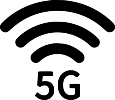
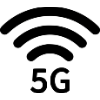
finished friends-screen

diff --git a/friends.html b/friends.html
@@ -8,21 +8,153 @@
 </head>
 <body>
     <!-- STATUS-BAR -->
-    <div class="status-bar">
+    <div class="status-bar-b">
         <div class="status-bar_service">
             <span class="status-bar_service_telecom">Verizon</span>
-            <img class="icon_5g" src="img/5g.png" />
+            <img class="icon_5g" src="img/5g_w.png" />
         </div>
         <div class="status-bar_time">
             <span class="status-bar_time_time">12:43</span>
         </div>
         <div class="status-bar_battery">
-            <img class="icon_rotation" src="img/rotaion.png"/>
+            <img class="icon_rotation" src="img/rotation_w.png"/>
             <span class="status-bar_battery_percentage">75%</span>
-            <img class="icon_battery" src="img/battery.png"/>
-            <img class="icon_flash" src="img/flash.png"/>
+            <img class="icon_battery" src="img/battery_w.png"/>
+            <img class="icon_flash" src="img/flash_w.png"/>
         </div>
     </div>
+    <!-- FRIENDS-SCREEN -->
+    <div class="friends-bg">
+        <heacer class="header">
+            <span>FRIENDS</span>
+        </heacer>
+        <div class="friends-screen">
+            <div class="profile">
+                <div class="profile_col_pic">
+                    <img class="profile_pic_lg" src="img/spider-selfie.jpg">
+                </div>
+                <div class="profile_col_content">
+                    <div class="profile_col_content_name-lg">
+                        <span class="profile_name">Spider-Man</span>
+                    </div>
+                    <div class="profile_col_content_text"></div>
+                </div>
+                <div class="profile_col_noti">
+                    <div class="profile_col_noti_time"></div>
+                    <div class="profile_col_noti_noti"></div>
+                </div>
+
+            </div>
+            <div class="h-line_f">
+                <div class="h-line_text">
+                    Hero
+                </div>
+                <div class="h-line_icon">
+                    <img class="chev-up_f" src="img/chev-up.PNG" />
+                </div>
+            </div>
+            <div class="profile">
+                <div class="profile_col_pic">
+                    <img class="profile_pic" src="img/nicolas.jpg">
+                </div>
+                <div class="profile_col_content">
+                    <div class="profile_col_content_name">
+                        <span class="profile_name">Nomad-Coder</span>
+                    </div>
+                    <div class="profile_col_content_text">
+                        <span class="profile_span">Don't for get to be happy and eat Kimchi!</span>
+                    </div>
+                </div>
+                <div class="profile_col_noti">
+                    <div class="profile_col_noti_time"></div>
+                    <div class="profile_col_noti_noti"></div>
+                </div>
+
+            </div>
+            <div class="profile">
+                <div class="profile_col_pic">
+                    <img class="profile_pic" src="img/iron-selfie.jpg">
+                </div>
+                <div class="profile_col_content">
+                    <div class="profile_col_content_name">
+                        <span class="profile_name">Iron-man</span>
+                    </div>
+                    <div class="profile_col_content_text">
+                        <span class="profile_span"></span>
+                    </div>
+                </div>
+                <div class="profile_col_noti">
+                    <div class="profile_col_noti_time"></div>
+                    <div class="profile_col_noti_noti"></div>
+                </div>
+            </div>
+            <div class="profile">
+                <div class="profile_col_pic">
+                    <img class="profile_pic" src="img/hulk-selfie.jpg">
+                </div>
+                <div class="profile_col_content">
+                    <div class="profile_col_content_name">
+                        <span class="profile_name">HULK</span>
+                    </div>
+                    <div class="profile_col_content_text">
+                        <span class="profile_span">Don't make me angry.</span>
+                    </div>
+                </div>
+                <div class="profile_col_noti">
+                    <div class="profile_col_noti_time"></div>
+                    <div class="profile_col_noti_noti"></div>
+                </div>
+
+            </div>
+            <div class="h-line_f">
+                <div class="h-line_text">
+                    DC guys
+                </div>
+                <div class="h-line_icon">
+                    <img class="chev-up_f" src="img/chev-up.PNG" />
+                </div>
+            </div>
+            <div class="profile">
+                <div class="profile_col_pic">
+                    <img class="profile_pic" src="img/bat-selfie.jpg">
+                </div>
+                <div class="profile_col_content">
+                    <div class="profile_col_content_name">
+                        <span class="profile_name">Bat-Man</span>
+                    </div>
+                    <div class="profile_col_content_text">
+                        <span class="profile_span">DC boom is coming!</span>
+                    </div>
+                </div>
+                <div class="profile_col_noti">
+                    <div class="profile_col_noti_time"></div>
+                    <div class="profile_col_noti_noti"></div>
+                </div>
+
+            </div>
+            <div class="profile">
+                <div class="profile_col_pic">
+                    <img class="profile_pic" src="img/wonder-selfie.jpg">
+                </div>
+                <div class="profile_col_content">
+                    <div class="profile_col_content_name">
+                        <span class="profile_name">Wonder-Woman</span>
+                    </div>
+                    <div class="profile_col_content_text">
+                        <span class="profile_span"></span>
+                    </div>
+                </div>
+                <div class="profile_col_noti">
+                    <div class="profile_col_noti_time"></div>
+                    <div class="profile_col_noti_noti"></div>
+                </div>
+
+            </div>
+            
+            
+        </div>
+    </div>
+    <!-- NAVIGATION -->
     <script src="https://kit.fontawesome.com/62b50a0b9a.js" crossorigin="anonymous"></script>
 </body>
 </html>

diff --git a/css/screens/friends-screen.css b/css/screens/friends-screen.css
@@ -1,0 +1,67 @@
+.friends-screen {
+  margin: 0px 15px;
+  width: 100%;
+  background-color: white;
+  border-radius: 10px;
+  padding: 15px 15px 0px;
+  box-sizing: border-box;
+}
+
+/* Profile-row */
+.profile {
+  display: flex;
+  width: 100%;
+  align-items: center;
+  margin-bottom: 15px;
+}
+
+/* Profile_1st Column */
+.profile_pic_lg {
+  height: 60px;
+  width: 60px;
+  border-radius: 10px;
+  margin-right: 10px;
+}
+.profile_pic {
+  height: 48px;
+  width: 48px;
+  border-radius: 7px;
+  margin-right: 10px;
+}
+/* Profile_2nd Column */
+.profile_col_content {
+  display: flex;
+  flex-direction: column;
+  justify-content: space-between;
+}
+.profile_col_content_name-lg {
+  font-size: 20px;
+  font-weight: 600;
+}
+.profile_col_content_name {
+  font-size: 19px;
+  font-weight: 400;
+}
+
+.profile_col_content_text {
+  margin-top: 7px;
+  font-size: 15px;
+  opacity: 0.9;
+}
+/* Profile_3rd Column */
+
+/* Components */
+.h-line_f {
+  width: 100%;
+  display: flex;
+  justify-content: space-between;
+  border-top: 1px solid rgba(0, 0, 0, 0.4);
+  padding: 5px 0px;
+  box-sizing: border-box;
+  margin-bottom: 13px;
+  opacity: 0.7;
+}
+
+.chev-up_f {
+  height: 15px;
+}

diff --git a/css/components/status-bar.css b/css/components/status-bar.css
@@ -1,5 +1,21 @@
+@keyframes get-down {
+  0% {
+    opacity: 0;
+    transform: translateY(-50px);
+  }
+  80% {
+    opacity: 0;
+    transform: translateY(-50px);
+  }
+  100% {
+    opacity: 1;
+    transform: translateY(0px);
+  }
+}
+
 /* WHOLE */
 .status-bar {
+  animation: get-down 14s ease-in-out forwards;
   position: fixed;
   z-index: 2;
   width: 100%;
@@ -10,6 +26,7 @@
   padding: 7px;
   box-sizing: border-box;
   font-size: 14px;
+  color: white;
 }
 /* 1st Column */
 .status-bar_service {
@@ -17,6 +34,7 @@
   display: flex;
   align-items: center;
   justify-content: flex-start;
+  opacity: 0.8;
 }
 
 /* 2nd Column */
@@ -26,6 +44,7 @@
   align-items: center;
   justify-content: center;
   font-weight: 600;
+  opacity: 0.8;
 }
 
 /* 3rd Column */
@@ -34,21 +53,26 @@
   display: flex;
   align-items: center;
   justify-content: flex-end;
+  opacity: 0.8;
 }
 
 /* IMAGES AND ICONS */
 .icon_5g {
   height: 15px;
   margin-left: 3px;
+  opacity: 0.8;
 }
 .icon_rotation {
   height: 15px;
   margin-right: 3px;
+  opacity: 0.8;
 }
 .icon_battery {
   height: 30px;
   margin-left: 3px;
+  opacity: 0.8;
 }
 .icon_flash {
   height: 14px;
+  opacity: 0.8;
 }

diff --git a/index.html b/index.html
@@ -11,16 +11,16 @@
     <div class="status-bar">
         <div class="status-bar_service">
             <span class="status-bar_service_telecom">Verizon</span>
-            <img class="icon_5g" src="img/5g.png" />
+            <img class="icon_5g" src="img/5g_w.png" />
         </div>
         <div class="status-bar_time">
             <span class="status-bar_time_time">12:43</span>
         </div>
         <div class="status-bar_battery">
-            <img class="icon_rotation" src="img/rotaion.png"/>
+            <img class="icon_rotation" src="img/rotation_w.png"/>
             <span class="status-bar_battery_percentage">75%</span>
-            <img class="icon_battery" src="img/battery.png"/>
-            <img class="icon_flash" src="img/flash.png"/>
+            <img class="icon_battery" src="img/battery_w.png"/>
+            <img class="icon_flash" src="img/flash_w.png"/>
         </div>
     </div>
     <!-- BACKGROUND -->

diff --git a/css/screens/friends-bg.css b/css/screens/friends-bg.css
@@ -1,0 +1,37 @@
+/* STATUSBAR AND BG */
+.status-bar-b {
+  position: fixed;
+  z-index: 2;
+  width: 100%;
+  top: -6px;
+  display: flex;
+  justify-content: center;
+  align-items: center;
+  padding: 7px;
+  box-sizing: border-box;
+  font-size: 14px;
+  color: white;
+}
+
+.friends-bg {
+  position: absolute;
+  height: 100%;
+  width: 100%;
+  background-color: var(--m-red);
+  box-shadow: inset 0 0 50px black;
+  display: flex;
+  flex-direction: column;
+  align-items: center;
+  padding: 0px 20px;
+  box-sizing: border-box;
+}
+
+/* MAIN */
+.header {
+  width: 100%;
+  display: flex;
+  justify-content: flex-start;
+  padding: 50px 0px 20px;
+  font-size: 30px;
+  font-family: "Orbitron", sans-serif;
+}

diff --git a/css/style.css b/css/style.css
@@ -4,11 +4,15 @@
 
 /* COMPONENTS */
 @import "components/status-bar.css";
+@import "components/nav-bar.css";
 
 /* INDEX */
 @import "screens/index-bg.css";
 @import "screens/index-header.css";
 @import "screens/index-login.css";
+/* FRIENDS */
+@import "screens/friends-bg.css";
+@import "screens/friends-screen.css";
 
 body {
   height: 100vh;
